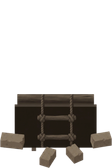
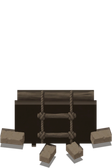
fix: the pit's spoil casts, the hole does not
Three faults, and only the first was the one reported.

A part marked VOID is an absence, so make_shadow drops void faces before
flattening. The pit had been given --shadow=0 instead — right about the hole,
wrong about the broken mudbrick at its mouth, which sits on the floor like any
other prop and had no footprint at all. It takes a normal --seat now, and the
rule holds for every hole the set gets rather than for this one tile.

NOCAST, for a part that is solid but HANGS. The pit's pole lies across the mouth
and its ladder hangs into the shaft, so there is no floor under either to catch
anything; flattened to z=0 they came out as dark slabs beside the hole. It is
coloured like any other part — it is the footprint it is kept out of, not the
picture. A shadow belongs to whatever touches the ground.

And the flatten plane was wrong for any object with geometry BELOW the floor.
seat_and_normalise puts the lowest point at z=0, which for almost everything is
the floor; for the pit it is the bottom of the shaft, so the floor sits three
quarters of the way up the object and the spoil's footprints were laid half a
shaft-depth below the bricks casting them. It now flattens to the minimum z of
whatever survives the void-drop, which is the ground for the pit and still
exactly zero for every ordinary prop.

The reason all three took a while: drop_void_faces silently did nothing. `mark`
creates a datablock named "void", then `paint` creates another with that name, so
[…]

Changed region(s): [[0.0, 0.744, 1.0, 1.0], [0.1071, 0.5357, 0.8839, 0.744], [0.6696, 0.6845, 0.6964, 0.7143]]

diff --git a/scripts/renderProp.py b/scripts/renderProp.py
@@ -38,6 +38,7 @@ thing to run.
 import sys
 import math
 import bpy
+import bmesh
 from mathutils import Matrix, Vector
 
 # The slot is 56x84 map units; render well above it and let `import-tile` resize, the same way every
@@ -590,12 +591,12 @@ def prim_pit():
     # The pole laid across the far lip, and the ladder over it. Coarse on purpose — at 56 units across
     # the opening a rope of 0.03 is two pixels and the ladder becomes a smudge.
     rope_y = (d - 0.05) / 2 - 0.055
-    pole = mark(cyl(0.05, w - 0.06, x=0, y=d / 2 + 0.01, z=0.05, verts=12), "body")
+    pole = mark(cyl(0.05, w - 0.06, x=0, y=d / 2 + 0.01, z=0.05, verts=12), NOCAST)
     pole.rotation_euler = (0, math.radians(90), 0)
     for sx in (-1, 1):
-        mark(box(0.05, 0.05, 0.10 + hv, x=sx * 0.25, y=rope_y, z=(0.10 - hv) / 2), "body")
+        mark(box(0.05, 0.05, 0.10 + hv, x=sx * 0.25, y=rope_y, z=(0.10 - hv) / 2), NOCAST)
     for i in range(3):
-        mark(box(0.55, 0.055, 0.055, y=rope_y, z=-0.09 - i * 0.15), "body")
+        mark(box(0.55, 0.055, 0.055, y=rope_y, z=-0.09 - i * 0.15), NOCAST)
     return join_all()
 
 
@@ -885,6 +886,11 @@ def srgb_to_linear(c):
 
 
 VOID = "void"  # the material name a primitive marks the inside of a hole with
+# A part that does not TOUCH THE FLOOR, and so casts nothing on it. Coloured like any other part — it is
+# the footprint it is kept out of, not the picture. `prim_pit`'s pole and its rope ladder are the case:
+# they hang over and into the shaft, so there is no floor under them to catch a shadow, and flattened to
+# z=0 they came out as dark slabs lying beside the hole.
+NOCAST = "nocast"
 
 # What a marked part is painted, when the caller names no colour for it. A scaffold's job is to be
 # RECOGNISED — tile-art-brief.md's whole argument for --colour is that a grey render came back as
@@ -897,6 +903,7 @@ PART_COLOURS = {
     "accent": "#b07a3c",  # the rank's one warm ochre; override per rank with --colour-accent
     "pottery": "#8f7358",  # fired clay: warmer and duller than timber, and never the ochre accent
     "cloth": "#bdb3a0",
+    # NOCAST is not a colour: a part kept out of the footprint is still painted the rank's stone.
 }
 
 
@@ -950,7 +957,9 @@ def paint(obj, hex_colour):
         return
     for i, name in enumerate(names):
         default = PART_COLOURS.get(name, hex_colour)
-        obj.data.materials[i] = flat_material(f"prop{i}", arg(f"colour-{name}", default))
+        # Keeps the slot's NAME, not `prop{i}`. `make_shadow` reads it back to find the void, and a
+        # renamed slot leaves it unable to tell an absence from stone.
+        obj.data.materials[i] = flat_material(name, arg(f"colour-{name}", default))
 
 
 def load_subject(mesh_path, primitive):
@@ -1070,6 +1079,41 @@ def seat_and_normalise(obj):
     return x1 - x0, y1 - y0
 
 
+def drop_void_faces(mesh_obj):
+    """Removes any face marked VOID or NOCAST, so nothing that fails to touch the floor casts on it.
+
+    A part marked void is a HOLE — the inside of `prim_pit`'s shaft — and a hole does not sit on the
+    floor, so it must not appear in a flattened footprint. The pit was given `--shadow=0` instead, which
+    is right about the hole and wrong about everything beside it: the broken mudbrick round its mouth
+    lies on the floor like any other prop and came out with no footprint at all, reading as pasted on
+    rather than dropped there.
+
+    NOCAST is the same idea for a part that is solid but hangs: the pit's pole lies across the mouth and
+    its ladder hangs into the shaft, and flattening those to z=0 put dark slabs on the floor beside the
+    hole. A shadow belongs to whatever TOUCHES the ground, which for that tile is the spoil and nothing
+    else.
+
+    Doing it here rather than in the caller means the rule holds for every hole the set gets — `breach`
+    and `plug` are next — and a primitive with a void part takes a normal `--seat` like anything else."""
+    # `m.name.split(".")[0]`, and the suffix is not cosmetic. `mark` creates a datablock called "void",
+    # then `paint` creates ANOTHER material with that name — so Blender uniquifies it to "void.001" and an
+    # exact-name test silently matches nothing. This function quietly did nothing at all until that was
+    # printed out.
+    void = [i for i, m in enumerate(mesh_obj.data.materials) if m and m.name.split(".")[0] in (VOID, NOCAST)]
+    if not void:
+        return
+    mesh = mesh_obj.data
+    doomed = [poly.index for poly in mesh.polygons if poly.material_index in void]
+    if not doomed:
+        return
+    bm = bmesh.new()
+    bm.from_mesh(mesh)
+    bm.faces.ensure_lookup_table()
+    bmesh.ops.delete(bm, geom=[bm.faces[i] for i in doomed], context="FACES")
+    bm.to_mesh(mesh)
+    bm.free()
+
+
 def make_shadow(obj, depth, floor_hex, offset_x, offset_y):
     """The object's own footprint, lying on the floor, painted as that floor in shadow.
 
@@ -1100,7 +1144,17 @@ def make_shadow(obj, depth, floor_hex, offset_x, offset_y):
     shadow = obj.copy()
     shadow.data = obj.data.copy()
     bpy.context.scene.collection.objects.link(shadow)
+    drop_void_faces(shadow)
+    # Flattened to the plane the CASTING GEOMETRY RESTS ON, which is not always z=0.
+    #
+    # `seat_and_normalise` puts the object's lowest point at z=0, and for almost everything that is the
+    # floor. For `prim_pit` it is the bottom of the SHAFT: the floor sits three quarters of the way up the
+    # object, so flattening to z=0 laid the spoil's footprints half a shaft-depth below the bricks that
+    # cast them. Taking the minimum z of what survives the void-drop puts the shadow back on the ground —
+    # and leaves every ordinary prop exactly where it was, because for those that minimum IS zero.
+    rest = min((v.co.z for v in shadow.data.vertices), default=0.0)
     shadow.data.transform(Matrix.Diagonal((1.0, 1.0, 0.0, 1.0)))
+    shadow.data.transform(Matrix.Translation((0.0, 0.0, rest)))
     if offset_x or offset_y:
         anchored = shadow.data.copy()
         shadow.data.transform(Matrix.Translation((offset_x, offset_y, 0.0)))

diff --git a/docs/instructions/art-tasks.md b/docs/instructions/art-tasks.md
@@ -68,17 +68,6 @@ it means a re-roll, same as §1.
 
 ## 3. Painted, but wrong or not to standard
 
-**`starter/pit` — the spoil casts no shadow.** The tile is imported with `--shadow=0` and no `--seat`,
-on the rule that a hole casts nothing, and that is right about the HOLE and wrong about the broken
-mudbrick lying round its mouth. Those pieces sit on the floor like any other prop and should have a
-footprint under them; without one they read as pasted on rather than dropped there.
-
-The blanket flag is the bug. The fix belongs in `make_shadow`: a part marked `VOID` is an absence and an
-absence casts nothing, so the flatten should SKIP void geometry rather than the caller skipping the
-shadow. Then the pit takes a normal `--seat` and only its bricks cast — and the rule generalises to
-every hole the set ever gets, which is `breach` and `plug` next. Note `--sun=0` on the pit's scaffold
-would have to go with it, since that also tells the camera to leave no room underneath.
-
 **`starter/statue` and `starter/basin` — the last two merchant props outside the pipeline.** Both are
 still 56x84 where everything else at that rank is 112x168, both have painted opaque shadows where every
 other prop has a translucent rendered one, and neither has a rebuild line. They have masters
